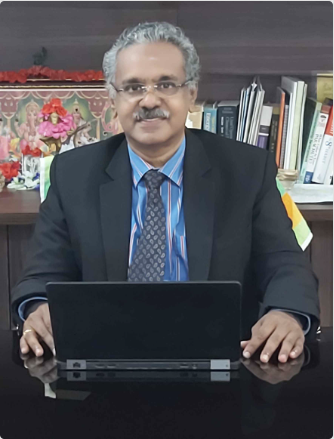
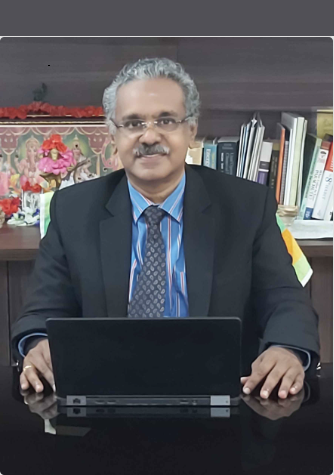
fix: some images and added project management team details

diff --git a/server/temporary/AddTeamInDB.js b/server/temporary/AddTeamInDB.js
@@ -583,6 +583,162 @@ const teamData = [
     instagram: "https://www.instagram.com/swathi_chok",
     description: "Supporting team outreach and communications",
     order: 44
+  },
+  {
+    name: "Sriya Ghosh",
+    role: "Project Manager",
+    subteam: "Project Management",
+    Department: "Mechanical Engineering",
+    photoUrl: null,
+    year: "PreFinal Year",
+    email: "sriyaghosh444@gmail.com",
+    linkedin: "https://www.linkedin.com/in/sriya-ghosh-0a93792a3",
+    instagram: "https://www.linkedin.com/company/scientnitt/",
+    description: "Leading project management initiatives",
+    order: 46
+  },
+  {
+    name: "D Sai Sri Mouriya",
+    role: "Project Manager",
+    subteam: "Project Management",
+    Department: "Electrical and Electronics Engineering",
+    photoUrl: null,
+    year: "PreFinal Year",
+    email: "saisrimouriyadhava.06@gmail.com",
+    linkedin: "https://www.linkedin.com/in/d-sai-sri-mouriya-1041792a7",
+    instagram: "https://www.linkedin.com/company/scientnitt/",
+    description: "Coordinating project management efforts",
+    order: 47
+  },
+  {
+    name: "A Durgesh",
+    role: "Project Manager",
+    subteam: "Project Management",
+    Department: "Mechanical Engineering",
+    photoUrl: null,
+    year: "PreFinal Year",
+    email: "adurgesh192@gmail.com",
+    linkedin: "https://www.linkedin.com/in/a-durgesh",
+    instagram: "https://www.instagram.com/dark_radar.8816",
+    description: "Driving project management and team coordination",
+    order: 48
+  },
+  {
+    name: "Aysha Nawreen M",
+    role: "Project Manager",
+    subteam: "Project Management",
+    Department: "Chemical Engineering",
+    photoUrl: null,
+    year: "PreFinal Year",
+    email: "ayshareen005@gmail.com",
+    linkedin: "https://www.linkedin.com/in/aysha-nawreen",
+    instagram: "https://www.instagram.com/aysha.nawreen_",
+    description: "Overseeing project planning and execution",
+    order: 49
+  },
+  {
+    name: "Hem Sai",
+    role: "Project Manager",
+    subteam: "Project Management",
+    Department: "Production Engineering",
+    photoUrl: null,
+    year: "PreFinal Year",
+    email: "meh.hem2508@gmail.com",
+    linkedin: "https://www.linkedin.com/in/hem77/",
+    instagram: "https://www.instagram.com/meh_._hem/",
+    description: "Managing project workflows and deliverables",
+    order: 50
+  },
+  {
+    name: "S Sundar Palaniappan",
+    role: "Project Manager",
+    subteam: "Project Management",
+    Department: "Instrumentation and Control Engineering",
+    photoUrl: null,
+    year: "PreFinal Year",
+    email: "sundarpalaniappan30@gmail.com",
+    linkedin: "https://www.linkedin.com/in/sundar-palaniappan-s",
+    instagram: "https://www.instagram.com/s_sundar13",
+    description: "Leading project management strategies",
+    order: 51
+  },
+  {
+    name: "A M Yafea Nazz",
+    role: "Project Manager",
+    subteam: "Project Management",
+    Department: "Mechanical Engineering",
+    photoUrl: null,
+    year: "PreFinal Year",
+    email: "amyafeanazz.dc@gmail.com",
+    linkedin: "https://www.linkedin.com/in/a-m-yafea-nazz-990586378",
+    instagram: "https://www.instagram.com/yafeanazz.11",
+    description: "Coordinating project initiatives and timelines",
+    order: 52
+  },
+  {
+    name: "Ragipalyam Ananda Swaroop",
+    role: "Project Manager",
+    subteam: "Project Management",
+    Department: "Computer Science and Engineering",
+    photoUrl: null,
+    year: "PreFinal Year",
+    email: "anandaswaroop153@gmail.com",
+    linkedin: "https://www.linkedin.com/in/ananda-swaroop-0abbba312/",
+    instagram: "https://www.linkedin.com/company/scientnitt/",
+    description: "Supporting project management and technical coordination",
+    order: 53
+  },
+  {
+    name: "Srinath Nagarajan",
+    role: "Project Operations Executive",
+    subteam: "Project Management",
+    Department: "Instrumentation and Control Engineering",
+    photoUrl: null,
+    year: "Final Year",
+    email: "nsrinath2401@gmail.com",
+    linkedin: "https://www.linkedin.com/in/srinath-nagarajan",
+    instagram: "https://www.instagram.com/wtfsrinath/",
+    description: "Overseeing project operations and execution",
+    order: 54
+  },
+  {
+    name: "Fariza Jabeen Z",
+    role: "Project Manager",
+    subteam: "Project Management",
+    Department: "Mechanical Engineering",
+    photoUrl: null,
+    year: "PreFinal Year",
+    email: "starshiner11roblox@gmail.com",
+    linkedin: "https://www.linkedin.com/me?trk=p_mwlite_feed-secondary_nav",
+    instagram: "https://www.instagram.com/fariza_jabeen/",
+    description: "Managing project planning and team coordination",
+    order: 55
+  },
+  {
+    name: "Swasthika M",
+    role: "Project Manager",
+    subteam: "Project Management",
+    Department: "Metallurgical and Materials Engineering",
+    photoUrl: null,
+    year: "PreFinal Year",
+    email: "lizzyben1410@gmail.com",
+    linkedin: "https://in.linkedin.com/in/swasthika-manoharan-392b0831b",
+    instagram: "https://www.instagram.com/butter_14_scotch",
+    description: "Leading project management efforts",
+    order: 56
+  },
+  {
+    name: "E Shakthi Ganesh",
+    role: "Project Manager",
+    subteam: "Project Management",
+    Department: "Instrumentation and Control Engineering",
+    photoUrl: null,
+    year: "PreFinal Year",
+    email: "kawaskininja575@gmail.com",
+    linkedin: "https://www.linkedin.com/in/shakthi-ganesh-elavarasan-80b451353",
+    instagram: "https://www.instagram.com/meesg02",
+    description: "Coordinating project execution and deliverables",
+    order: 57
   }
 ];
 
@@ -603,6 +759,7 @@ const seedDB = async () => {
     console.error("❌ Error seeding database:", err);
     mongoose.connection.close();
   }
+  
 };
 
 seedDB();
